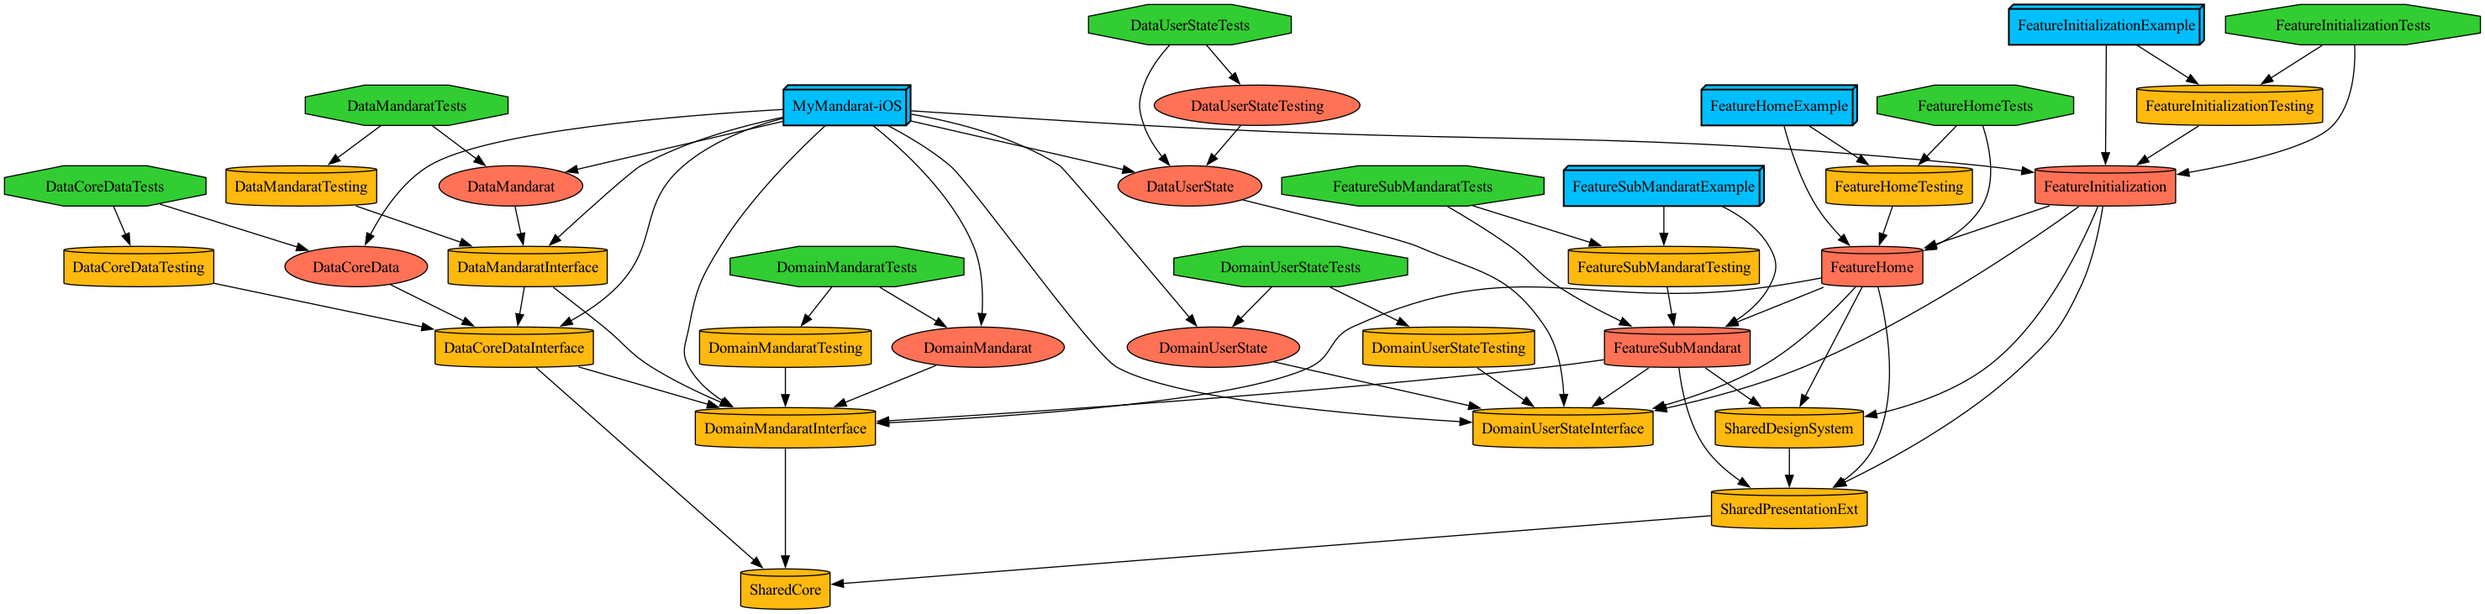
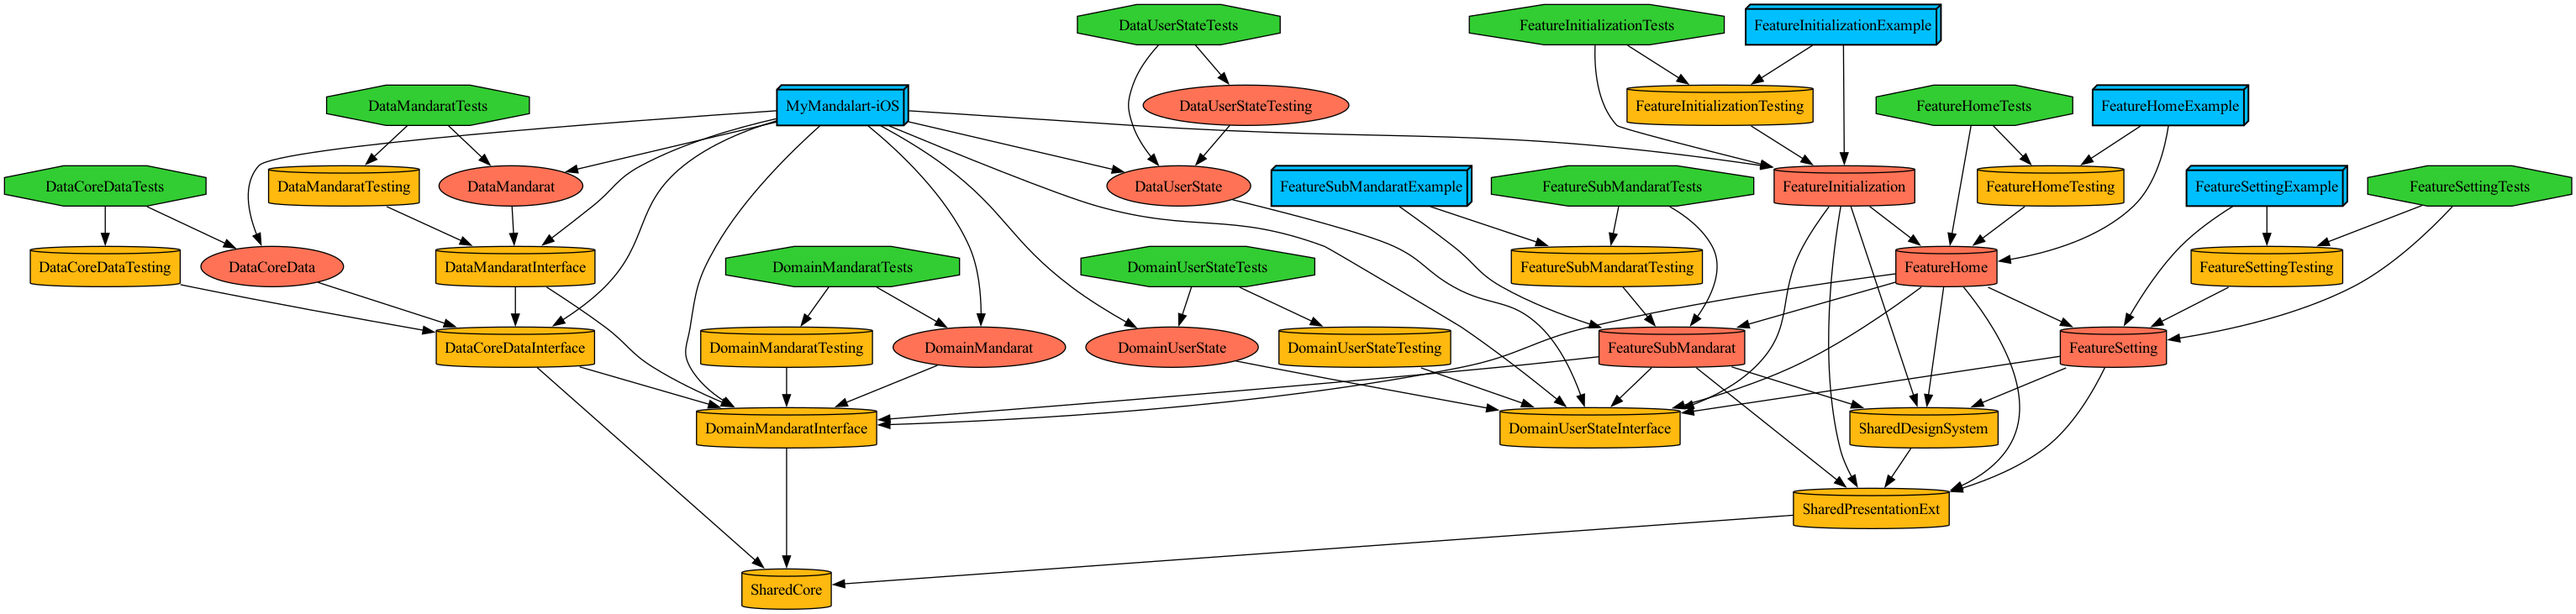
Feat, Readme수정 및 의존성 그래프 업데이트

diff --git a/Readme.md b/Readme.md
@@ -1,4 +1,4 @@
-# MyMandarat
+# MyMandalart
 
 만다라트 작성을 도와주는 iOS어플리케이션 입니다.
 
